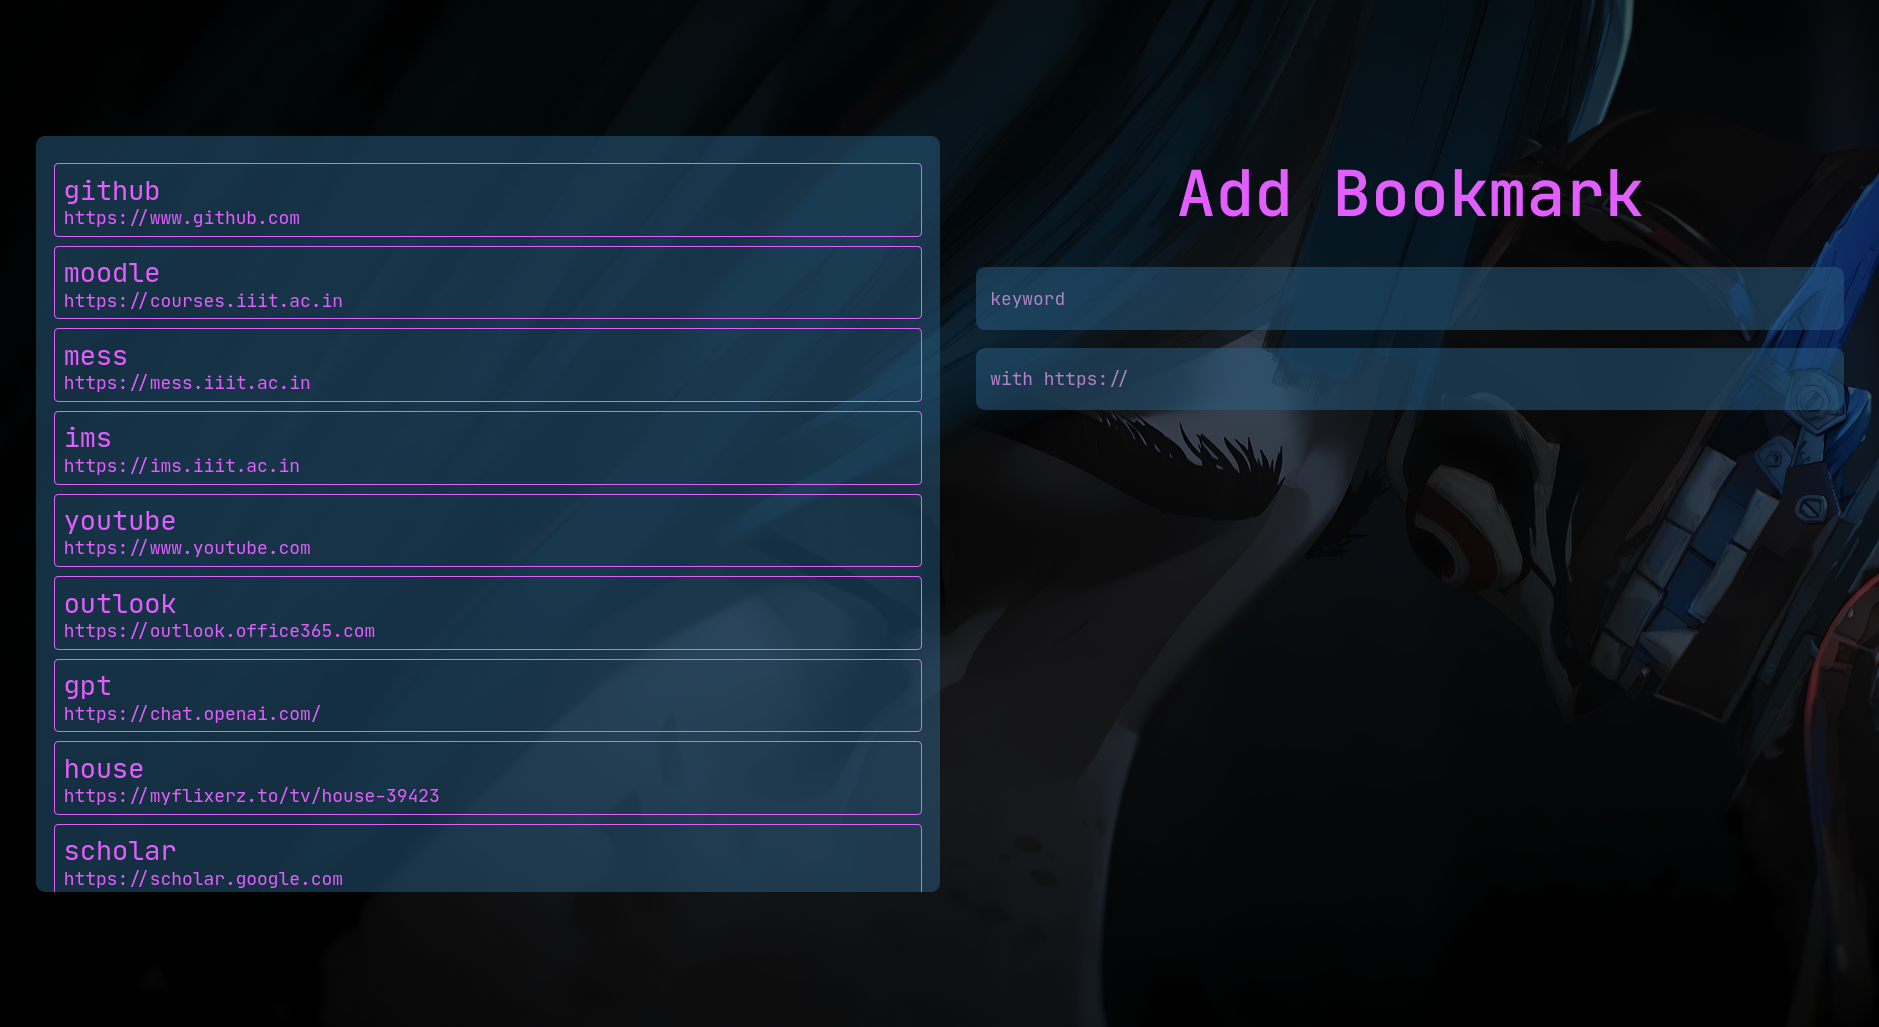
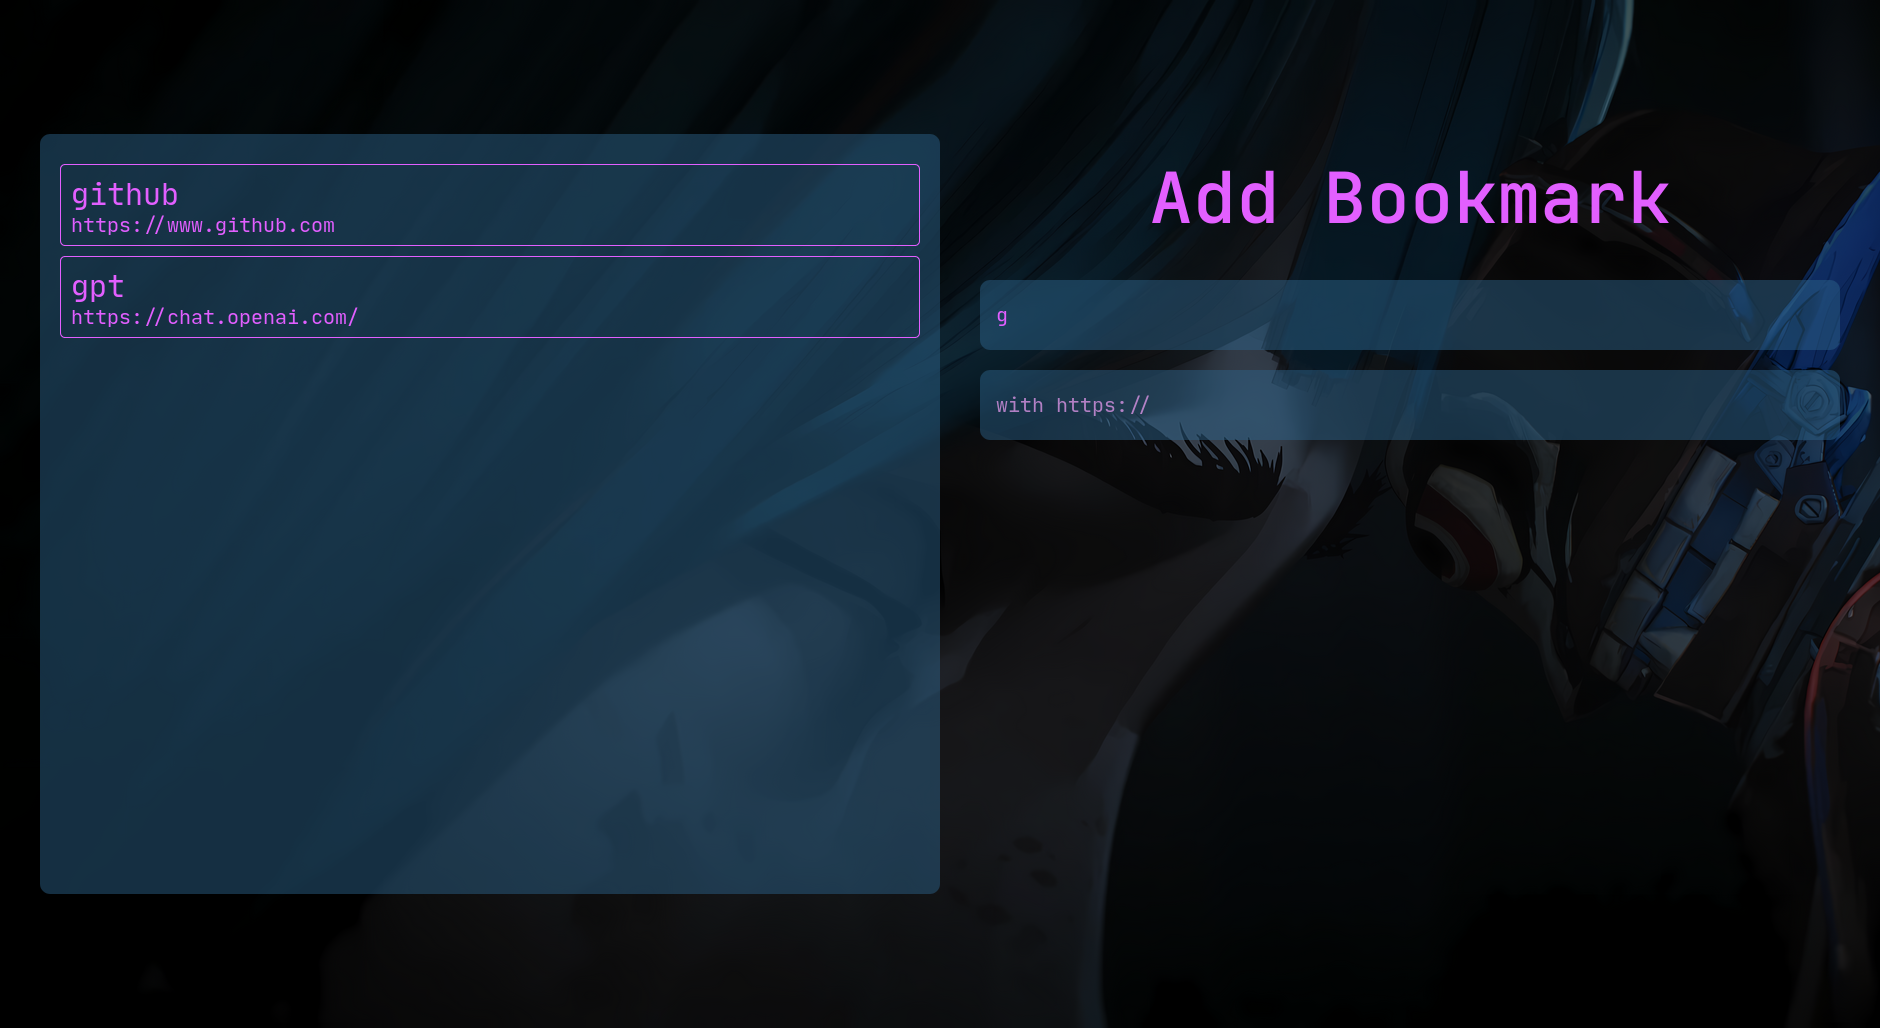
fixed searchbox float position bug

diff --git a/style.css b/style.css
@@ -129,6 +129,9 @@ body {
 .search-box {
     height: 50px;
     padding: 10px;
+
+    width: 40vw;
+    position: relative;
 }
 
 .search-box.suggestions-active {
@@ -144,8 +147,11 @@ body {
 }
 
 .search.active .search-input {
-    width: 80vh;
+    width: calc(40vw - 70px);
     padding: 0 6px;
+
+    position: absolute;
+    left: 10px;
 
     opacity: 1;
 }
@@ -159,7 +165,8 @@ body {
 
 .search-button {
     color: var(--background-color);
-    float: right;
+    position: absolute;
+    right: 10px;
     width: 50px;
     height: 50px;
     border-width: 3px;
@@ -391,4 +398,49 @@ section {
 
 input::placeholder {
     color: var(--hint-color);
+}
+
+/*      Settings Page       */
+
+.settings-container {
+    display: flex;
+    justify-content: space-between;
+    align-items: center;
+    flex-direction: column;
+
+    position: absolute;
+    top: 10%;
+    left: 50%;
+    transform: translateX(-50%);
+
+    height: 80%;
+    width: 50%;
+
+    visibility: hidden;
+
+    opacity: 0;
+
+    transition: visibility 0.4s, opacity 0.4s;
+}
+
+.settings-container.active {
+    visibility: visible;
+    opacity: 1;
+}
+
+.settings-title {
+    font-size: 70px;
+    font-weight: bold;
+    color: var(--text-color);
+}
+
+.settings-list {
+    padding: 0;
+    margin: 20px 0 0;
+
+    border-radius: 10px;
+    background: var(--primary-color);
+
+    height: 100%;
+    width: 100%;
 }

diff --git a/home.html b/home.html
@@ -71,5 +71,32 @@
     </div>
 </section>
 
+<section id="settings-section" class="settings-section">
+    <div id="settings-container" class="settings-container">
+        
+        <div id="settings-title" class="settings-title">
+            Settings
+        </div>
+        
+        <ul id="settings-list" class="settings-list">
+        </ul>
+        
+<!--        <div id="settings-add-container" class="settings-add-container">-->
+<!--            <div id="settings-add-title" class="settings-add-title">-->
+<!--                Add Bookmark-->
+<!--            </div>-->
+<!--            <div id="dialog" class="dialog">-->
+<!--                <div id="keyword-box" class="settings-box">-->
+<!--                    <input id="keyword-input" class="search-input" type="text" name="" placeholder="keyword">-->
+<!--                </div>-->
+<!--                <div id="url-box" class="settings-box">-->
+<!--                    <input id="url-input" class="search-input" type="text" name="" placeholder="with https://">-->
+<!--                </div>-->
+<!--            </div>-->
+<!--        </div>-->
+    </div>
+</section>
+
+
 </body>
 </html>

diff --git a/script.js b/script.js
@@ -437,9 +437,6 @@ window.onload = function ()
     console.log(event.key);
 }
 
-// todo add search suggestion
-// todo add settings page
-
 searchinput.addEventListener("input", function ()
 {
     console.log(searchinput.value);
@@ -462,3 +459,10 @@ document.body.addEventListener("click", (event) =>
         searchDuckDuckGo(query);
     }
 });
+
+// todo add arrow navigation to suggestions
+// todo add settings page
+// todo add option to turn off search suggestions
+// todo add option for cors bypass link, search suggestion api link
+// todo add add, delete buttons to bookmarks
+// todo optimize page for different screen sizes
